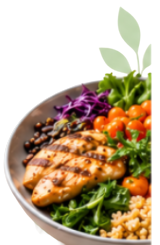
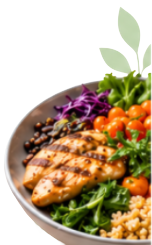
changes to pages and added images

diff --git a/frontend/pages/healthy-restaurants.html b/frontend/pages/healthy-restaurants.html
@@ -2,52 +2,37 @@
 <!DOCTYPE html>
 <html lang="en">
 <head>
+    
     <meta charset="UTF-8">
     <meta name="viewport" content="width=device-width, initial-scale=1.0">
 
     <title>Better Bite Orlando | Healthy Restaurants</title>
 
-    <link rel="stylesheet" href="/frontend/css/restaurant.css">
-
+    <!-- Google Fonts -->
     <link rel="preconnect" href="https://fonts.googleapis.com">
     <link rel="preconnect" href="https://fonts.gstatic.com" crossorigin>
 
     <link href="https://fonts.googleapis.com/css2?family=DM+Sans:wght@400;500;600;700&family=Playfair+Display:wght@600;700&display=swap" rel="stylesheet">
+
+    <!-- Bootstrap Icons -->
+    <link rel="stylesheet"
+        href="https://cdn.jsdelivr.net/npm/bootstrap-icons@1.13.1/font/bootstrap-icons.min.css">
+
+    <!-- Bootstrap Theme -->
+    <link rel="stylesheet" href="../css/bootstrap-custom.min.css">
+
+    <!-- Shared Navigation CSS -->
+    <link rel="stylesheet" href="../css/navbar.css">
+
+    <!-- Restaurant CSS -->
+    <link rel="stylesheet" href="../css/restaurant.css">
+
 </head>
 
 <body>
 
-    <!-- NAVIGATION -->
-    <header class="navbar">
-
-       <a href="../pages/index.html" class="logo">
-    <img
-        src="../logos/better-bit-orlando-logo-trn-bg.png"
-        alt="Better Bite Orlando"
-        class="logo-image"
-    >
-</a>
-        
-        </a>
-
-        <nav class="nav-links">
-            <a href="../pages/index.html">Home</a>
-            <a href="../pages/groceries.html">Groceries</a>
-            <a href="#restaurants" class="active">Healthy Restaurant</a>
-            <a href="../pages/recipes.html">Recipes</a>
-            <a href="../pages/favorites.html">Favorites</a>
-            <a href="#footer">Resources</a>
-        </nav>
-
-        <a href="../pages/profile.html" class="profile-button" aria-label="User profile">
-            <svg viewBox="0 0 24 24" width="25" height="25" fill="white" aria-hidden="true">
-                <circle cx="12" cy="8" r="4"/>
-                <path d="M4 21c0-4.2 3.5-7 8-7s8 2.8 8 7z"/>
-            </svg>
-        </a>
-
-    </header>
-
+    <!-- SHARED NAVIGATION -->
+    <div id="site-navbar"></div>
 
     <main>
 
@@ -68,6 +53,7 @@
         <!-- FILTER PANEL -->
         <section class="filter-panel">
 
+            <!-- DISTANCE FILTER -->
             <div class="filter-group distance-group">
 
                 <label for="distance">
@@ -77,13 +63,14 @@
                 <select id="distance">
                     <option value="1">1 mile</option>
                     <option value="3">3 miles</option>
-                    <option value="5" selected>5 mile</option>
+                    <option value="5" selected>5 miles</option>
                     <option value="10">10 miles</option>
                 </select>
 
             </div>
 
 
+            <!-- DIETARY PREFERENCE FILTER -->
             <div class="filter-group dietary-group">
 
                 <label>Dietary Preference</label>
@@ -115,11 +102,13 @@
             </div>
 
 
+            <!-- LOCATION FILTER -->
             <div class="filter-group location-group">
 
                 <label for="location">Location</label>
 
                 <div class="location-input">
+
                     <span>⌖</span>
 
                     <input
@@ -127,11 +116,13 @@
                         type="text"
                         placeholder="32805"
                     >
+
                 </div>
 
             </div>
 
 
+            <!-- CUISINE FILTER -->
             <div class="filter-group cuisine-group">
 
                 <label for="cuisine">Cuisine</label>
@@ -147,6 +138,7 @@
             </div>
 
 
+            <!-- SEARCH BUTTON -->
             <button id="searchBtn" class="search-button">
                 Search
                 <span>⌕</span>
@@ -157,7 +149,6 @@
 
         <!-- RESTAURANT CONTENT -->
         <section class="restaurant-layout" id="restaurants">
-
 
             <!-- LEFT RESTAURANT GRID -->
             <div class="restaurant-column">
@@ -171,13 +162,13 @@
                 </div>
 
 
+                <!-- RESTAURANT CARDS GENERATED BY JAVASCRIPT -->
                 <div id="restaurantGrid" class="restaurant-grid">
-
-                    <!-- RESTAURANTS GENERATED BY JAVASCRIPT -->
 
                 </div>
 
 
+                <!-- EMPTY RESULTS MESSAGE -->
                 <p id="emptyMessage" class="empty-message" hidden>
                     No restaurants found. Try changing your filters.
                 </p>
@@ -218,22 +209,22 @@
     <!-- FOOTER -->
     <footer id="footer">
 
+        <!-- FOOTER LOGO -->
         <div class="footer-logo-container">
 
-            <div class="footer-logo-container">
-    <a href="../pages/index.html" class="footer-logo">
-        <img
-            src="../logos/better-bit-orlando-logo-trn-bg.png"
-            alt="Better Bite Orlando"
-        >
-    </a>
-</div>
+            <a href="../pages/index.html" class="footer-logo">
+
+                <img
+                    src="../logos/better-bit-orlando-logo-trn-bg.png"
+                    alt="Better Bite Orlando"
+                >
 
             </a>
 
         </div>
 
 
+        <!-- FOOTER LINKS -->
         <div class="footer-links">
 
             <a href="#">About Us</a>
@@ -253,9 +244,14 @@
 
     </footer>
 
+    <!-- Bootstrap JavaScript -->
+<script src="https://cdn.jsdelivr.net/npm/bootstrap@5.3.8/dist/js/bootstrap.bundle.min.js"></script>
 
-    <!-- JAVASCRIPT -->
-    <script src="../js/restaurant.js"></script>
+<!-- Existing Shared Navigation JavaScript -->
+<script src="../js/navbar.js"></script>
+
+<!-- Restaurant JavaScript -->
+<script src="../js/restaurant.js"></script>
 
 </body>
 </html>

diff --git a/frontend/js/restaurant.js b/frontend/js/restaurant.js
@@ -21,7 +21,7 @@ const restaurants = [
         distance: 2.1,
         hours: "Sun-Thu: 11 AM - 10 PM",
         accessibility: "Wheelchair Accessible",
-        image: "https://images.unsplash.com/photo-1511690743698-d9d85f2fbf38?w=800",
+        image: "../images/agave-azul.jpg",
         tags: ["Vegan Options"],
         diets: ["vegetarian", "vegan"],
         description: "A vibrant Mexican restaurant offering fresh ingredients, flavorful tacos, salads, and delicious plant-based options."
@@ -37,7 +37,7 @@ const restaurants = [
         distance: 3.2,
         hours: "Mon-Thu: 11 AM - 10 PM",
         accessibility: "Wheelchair Accessible",
-        image: "https://images.unsplash.com/photo-1473093295043-cdd812d0e601?w=800",
+        image: "../images/carrabas.jpg",
         tags: ["Heart Healthy Options"],
         diets: ["vegetarian", "high-protein"],
         description: "Enjoy Italian-inspired dishes with fresh vegetables, grilled proteins, pasta, and lighter menu selections."
@@ -53,7 +53,7 @@ const restaurants = [
         distance: 4.5,
         hours: "Daily: 7 AM - 3 AM",
         accessibility: "Wheelchair Accessible",
-        image: "https://images.unsplash.com/photo-1512058564366-18510be2db19?w=1000",
+        image: "../images/backlot-bistro.jpg",
         tags: ["Vegan Options", "Vegetarian Options"],
         diets: ["vegetarian", "vegan", "high-protein", "low-carb"],
         description: "A vibrant dining spot with an American-style menu featuring pizza, burgers, sandwiches, chicken, pasta, and salads. Great options for vegan and vegetarian diners!"
@@ -69,7 +69,7 @@ const restaurants = [
         distance: 5.0,
         hours: "Mon-Thu: 9 AM - 11 PM",
         accessibility: "Wheelchair Accessible",
-        image: "https://images.unsplash.com/photo-1512621776951-a57141f2eefd?w=800",
+        image: "../images/earls.jpg",
         tags: ["Vegetarian Options"],
         diets: ["vegetarian", "vegan", "low-carb"],
         description: "A modern restaurant offering fresh salads, colorful vegetable dishes, and nutritious meals made with quality ingredients."

diff --git a/frontend/pages/favorites.html b/frontend/pages/favorites.html
@@ -29,6 +29,9 @@
     <link rel="stylesheet"
         href="https://cdn.jsdelivr.net/npm/bootstrap@5.3.8/dist/css/bootstrap.min.css">
 
+    <!-- Shared Navigation CSS -->
+    <link rel="stylesheet" href="../css/navbar.css">
+
     <!-- Favorites CSS -->
     <link rel="stylesheet" href="../css/favorites.css">
 
@@ -40,44 +43,7 @@
          HEADER / NAVIGATION
     ========================== -->
 
-    <header class="site-header">
-
-        <a href="index.html" class="logo-link">
-            <img
-                class="logo"
-                src="../logos/better-bit-orlando-logo-trn-bg.png"
-                alt="Better Bite Orlando">
-        </a>
-
-        <nav class="navbar" aria-label="Main navigation">
-
-            <a href="index.html">Home</a>
-
-            <a href="groceries.html">Groceries</a>
-
-            <a href="restaurants.html">Healthy Restaurant</a>
-
-            <a href="recipes.html">Recipes</a>
-
-            <a href="favorites.html" aria-current="page">Favorites</a>
-
-            <a href="resources.html">Resources</a>
-
-        </nav>
-
-        <div class="header-actions">
-
-            <a href="#search" class="search-icon" aria-label="Search">
-                <i class="bi bi-search"></i>
-            </a>
-
-            <a href="profile.html" class="profile-icon" aria-label="My profile">
-                <i class="bi bi-person-fill"></i>
-            </a>
-
-        </div>
-
-    </header>
+    <div id="site-navbar"></div>
 
 
     <!-- =========================
@@ -547,7 +513,16 @@
         </div>
 
     </footer>
-<script src="../js/favorites.js" defer></script>
+
+    <!-- JAVASCRIPT -->
+    <!-- Bootstrap JavaScript -->
+<script src="https://cdn.jsdelivr.net/npm/bootstrap@5.3.8/dist/js/bootstrap.bundle.min.js"></script>
+
+<!-- Existing Shared Navigation JavaScript -->
+<script src="../js/navbar.js"></script>
+
+<!-- Restaurant JavaScript -->
+<script src="../js/favorites.js"></script>
 </body>
 
 </html>

diff --git a/frontend/pages/recipes.html b/frontend/pages/recipes.html
@@ -28,31 +28,7 @@
 
     <!-- HEADER -->
 
-    <header>
-
-        <div class="logo">
-            <img src="../logos/better-bit-orlando-logo-trn-bg.png" alt="Better Bite Orlando Logo">
-        </div>
-
-        <nav>
-            <a href="../pages/index.html">Home</a>
-            <a href="../pages/groceries.html">Groceries</a>
-            <a href="../pages/restaurants.html">Healthy Restaurant</a>
-            <a href="#recipes">Recipes</a>
-            <a href="../pages/favorites.html">Favorites</a>
-            <a href="#resources">Resources</a>
-        </nav>
-
-        <div class="header-icons">
-            <span><i class="bi bi-search"></i></span>
-
-            <div class="profile">
-                <i class="bi bi-person-fill"></i>
-            </div>
-        </div>
-
-    </header>
-
+    <div id="site-navbar"></div>
 
     <!-- HERO SECTION -->
 
@@ -473,8 +449,14 @@
 
 
     <!-- JAVASCRIPT -->
+   <!-- Bootstrap JavaScript -->
+<script src="https://cdn.jsdelivr.net/npm/bootstrap@5.3.8/dist/js/bootstrap.bundle.min.js"></script>
 
-    <script src="../js/recipes.js"></script>
+<!-- Existing Shared Navigation JavaScript -->
+<script src="../js/navbar.js"></script>
+
+<!-- Restaurant JavaScript -->
+<script src="../js/recipes.js"></script>
 
 </body>
 </html>

diff --git a/frontend/pages/index.html b/frontend/pages/index.html
@@ -331,10 +331,6 @@
     </section>
 
   </main>
-
-
-
-  <!-- FOOTER -->
  
 <!-- FOOTER -->
 <footer class="site-footer">
@@ -380,7 +376,7 @@
   <!-- Bootstrap JavaScript -->
   <script src="https://cdn.jsdelivr.net/npm/bootstrap@5.3.8/dist/js/bootstrap.bundle.min.js"></script>
 
-  <!-- Existing Navigation JavaScript -->
+  <!-- Navigation JavaScript -->
   <script src="../js/navbar.js"></script>
 
 </body>
